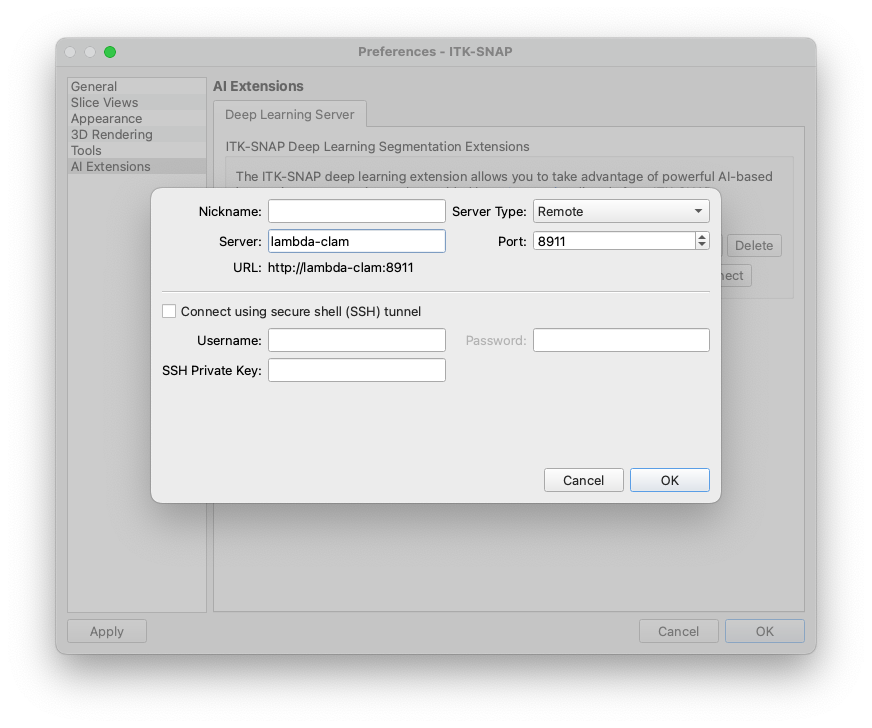
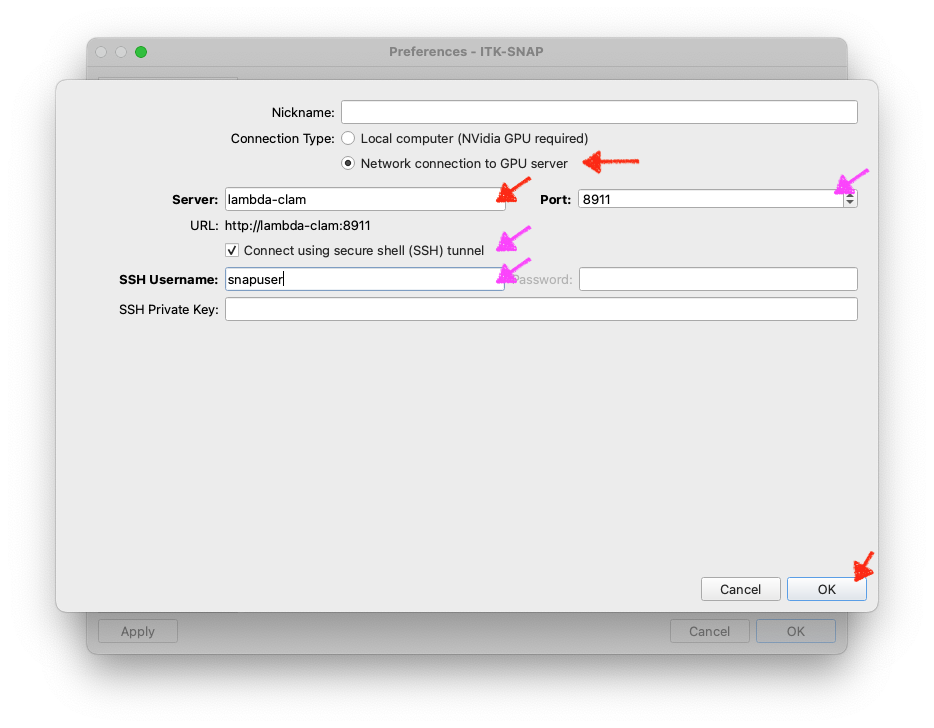
Documentation update

diff --git a/docs/quick_start.md b/docs/quick_start.md
@@ -1,10 +1,8 @@
-ITK-SNAP DLS Quick Start
-========================
+# ITK-SNAP DLS Quick Start
 ITK-SNAP DLS is in active development. Please bookmark this page and check for updates.
 
-Overview
---------
-This extension allows you to take advantage of powerful AI-based interactive segmentation tools provided by [nnInteractive](https://github.com/MIC-DKFZ/nnInteractive) directly from [ITK-SNAP](https://itksnap.org). In seconds, scribbles drawn using the ITK-SNAP paintbrush are transformed into complex 3D segmentations.
+## Overview
+The ITK-SNAP deep learning server (DLS) is a Python-based extension that allows you to take advantage of powerful AI-based interactive segmentation tools provided by [nnInteractive](https://github.com/MIC-DKFZ/nnInteractive) directly from [ITK-SNAP](https://itksnap.org). In seconds, scribbles drawn using the ITK-SNAP paintbrush or outlines drawn using the polygon tool are transformed into complex 3D segmentations.
 
 *If you use this feature for published work, please cite the most recent **nnInteractive** publication from Isensee et al.* Currently, the suggested citation is:
 
@@ -13,19 +11,57 @@ This extension allows you to take advantage of powerful AI-based interactive seg
 
 Link: [![arXiv](https://img.shields.io/badge/arXiv-2503.08373-b31b1b.svg)](https://arxiv.org/abs/2503.08373)
 
-Requirements
-------------
-A computer with an NVidia GPU and Python is required. This can be the same computer on which you run ITK-SNAP or another computer on your local network. We will refer to this computer as the "GPU server".
+Future releases of ITK-SNAP DLS may include additional AI-based segmentation and registration tools.  
+
+## Requirements
+An NVidia GPU is required to run the ITK-SNAP DLS. 
+
+There are two modes of operation for ITK-SNAP DLS:
+
+- **Local Mode:**: ITK-SNAP and the deep learning extension run on the same computer, which has an NVidia GPU. 
+- **Remote Mode:** ITK-SNAP runs on a computer without an NVidia GPU, but connects to a remote server that has an NVidia GPU. The remote server runs the deep learning extension.
+
+In both cases, the deep learning extension runs as a separate Python program (a "service"). ITK-SNAP connects to this service using the network (HTTP protocol) to use the AI-based segmentation tools.
 
 ![ITK-SNAP DLS diagram](images/itksnap_dls.png)
 
+## Using ITK-SNAP DLS in Local Mode
+**Note:** Follow these instructions if you are running ITK-SNAP on a computer with an NVidia GPU.
 
-Installation on GPU Server
---------------------------
+* Ensure that NVidia CUDA drivers are installed and up to date on the computer running ITK-SNAP
+* Ensure that Python 3.10 or later is available on the computer running ITK-SNAP
+
+The deep learniing segmentation extension in ITK-SNAP is accessed under the paintbrush tool, when activating the "AI" button. Alternatively, under the polygon tool, check the "AI mode" checkbox. The first time you press this button, you will see the following window:
+
+![Dialog Window](images/itksnap_dls_dialog.png)
+
+Pressing "Yes, configure" will open the Preferences Dialog, "AI Extensions" page. Press the **New...** button to open a dialog where you can configure a new local server. You can also access this dialog by pressing the gear icon, or through the "Preferences" menu. 
+
+![Config window](images/dlsconfig_initstate.png)
+
+Select "Local computer" under "Connection type" and select one of the Python executables available on your computer. Under "Package directory", you can select the directory where you want the `itksnap-dls` package to be installed. The default location should work for most users. Press "Setup Python Packages" to install the required Python packages. This will download and install the `itksnap-dls` package and its dependencies.
+
+![Config window](images/dlsconfig_edit_local.png)
+
+Once the installation is complete, press "OK" to close the dialog. You will see a new entry in the server list. You should see output from the running server in the console window, and in a few seconds, the status should change to "Connected".
+
+![Config window](images/dlsconfig_running_local.png)
+
+If you get a red error message instead, please see troubleshooting below.
+
+You are now ready to use nnInteractive from ITK-SNAP. Please see the section below for instructions on how to use nnInteractive from ITK-SNAP.
+
+## Using ITK-SNAP DLS in Remote Mode
+
+**Note:** Follow these instructions if you are running ITK-SNAP on a computer without an NVidia GPU, but can access a NVidia GPU server on your local network.
+
+### Installation 
+
+* Login to the GPU server using SSH or other remote access method. 
 * Ensure that NVidia CUDA drivers are installed and up to date on the GPU server
 * Ensure that Python is available on the GPU server
 
-### 1. Create a virtual environment
+#### Step 1. Create a virtual environment
 
 This step is not strictly necessary, but creating a virtual environment for the ITK-SNAP DLS server keeps its Python configuration separate. You can use the `conda` virtual environment manager, or other virtual environment tools. Here is the example using `conda`:
 
@@ -34,7 +70,7 @@ conda create -n itksnap-dls python=3.12
 conda activate itksnap-dls
 ```
 
-### 2. Install ITK-SNAP DLS
+#### Step 2. Install the `itksnap-dls` Python Package
 
 Install ITK-SNAP DLS using `pip`:
 
@@ -42,8 +78,8 @@ Install ITK-SNAP DLS using `pip`:
 pip install itksnap-dls
 ```
 
-Running the ITK-SNAP DLS service
---------------------------------
+### Launching the ITK-SNAP DLS service
+
 To run the service with default options, run:
 
 ```
@@ -65,22 +101,31 @@ $ python -m itksnap_dls
 ******************************************************************************
 ```
 
-Connecting to DLS from ITK-SNAP
---------------------------------
+### Connecting to DLS from ITK-SNAP
 
-The deep learniing segmentation extension in ITK-SNAP is accessed under the paintbrush tool, when activating the "AI" button. The first time you press this button, the following window will appear:
+The deep learniing segmentation extension in ITK-SNAP is accessed under the paintbrush tool, when activating the "AI" button. Alternatively, under the polygon tool, check the "AI mode" checkbox. The first time you press this button, you will see the following window:
 
 ![Dialog Window](images/itksnap_dls_dialog.png)
 
-Pressing "Yes, configure" will open the Preferences Dialog, "AI Extensions" page. Press the **New...** button to open a dialog where you can enter the server address and port, as shown below. If successful, you will see a green "Connected" message under server status.
+Pressing "Yes, configure" will open the Preferences Dialog, "AI Extensions" page. Press the **New...** button to open a dialog where you can configure a new local server. You can also access this dialog by pressing the gear icon, or through the "Preferences" menu. 
+
+![Config window](images/dlsconfig_initstate.png)
+
+Select "Network connection to GPU server" under "Connection type". Enter the server address and port number provided by the `itksnap-dls` service. The default port is `8911`, but you can change it using the `-p` option when running `itksnap-dls`.
 
 ![Config window](images/dlsconfig_edit.png)
+
+You also have the option to enable secure shell (SSH) tunneling, which is an experimental feature in ITK-SNAP. This is a workaround if the firewall on your remote GPU machine does not allow access to ports like 8911. It is also recommended as a more secure option if you are connecting to the remote GPU machine over the open Internet. 
+
+If you check the "Use SSH tunnel" box, you will be prompted to enter your username for the GPU server. ITK-SNAP will attempt to open a secure shell connection to the GPU server and use this connection to send data to `itksnap-dls`. You may be prompted for your password. ITK-SNAP currently does not store this password, and if we will in the future, it will use your operating system's keychain. 
+
+Press "OK" to close the dialog. You will see a new entry in the server list. If your server is running, in a few seconds, the status should change to "Connected".
+
 ![Config window](images/dlsconfig.png)
 
 If you get a red error message instead, please see troubleshooting below.
 
-Using nnInteractive from ITK-SNAP
---------------------------------
+## Using nnInteractive from ITK-SNAP
 
 * Just draw with the "AI" paintbrush. Your scribbles will be converted by **nnInteractive** to 3D segmentations. You can use the left mouse button to label pixels that should belong to the structure of interest, and right mouse button to label pixels that should be removed from the structure. When you change the active label, the **nnInteractive** interaction state is reset -- as if you are starting a new segmentation. 
 
@@ -94,14 +139,15 @@ Using nnInteractive from ITK-SNAP
     * **Lasso interaction:** when you draw using the polygon tool with AI mode enabled 
 
 
-Troubleshooting
----------------
+## Troubleshooting
 
-### Errors running itksnap-dls on the server
+### Errors running itksnap-dls locally or on the remote server
 
 1. Error messages related to SSL certificates (`SSL: CERTIFICATE_VERIFY_FAILED`):
 
-    * Use `-k` option to disable certificate verification: 
+    * If running locally, check the "Disable SSL certificate verification" box. This will disable SSL certificate verification and allow you to run the server without a valid SSL certificate.
+
+    * If running remotely, use `-k` option to disable certificate verification: 
     
             python -m itksnap_dls -k
 
@@ -121,8 +167,6 @@ Errors are likely caused by a firewall on your server. Some options to resolve t
 * Ask the system administrator to open the port being used by `itksnap-dls` on the GPU server, e.g., port 8911 or whatever port number you provide using the `-p` option. 
 
 * Use secure shell (SSH) tunneling built into ITK-SNAP. This is a very experimental feature in ITK-SNAP. Check the SSH tunnel button when setting up the server in ITK-SNAP and enter the username you use to login to the GPU server. ITK-SNAP will attempt to open a secure shell connection to the GPU server and to use this connecting to send data to `itksnap-dls`. You may be prompted for your password. ITK-SNAP currently does not store this password, and if we will in the future, it will use your operating system's keychain.
-
-![Config window](images/dlsconfig_ssh.png)
 
 * Use SSH tunneling using an external program. This feature is provided by the command-line program `ssh.exe` (Windows) or `ssh` (MacOS/Linux). Open a terminal window on the computer running ITK-SNAP, and run the command
 
